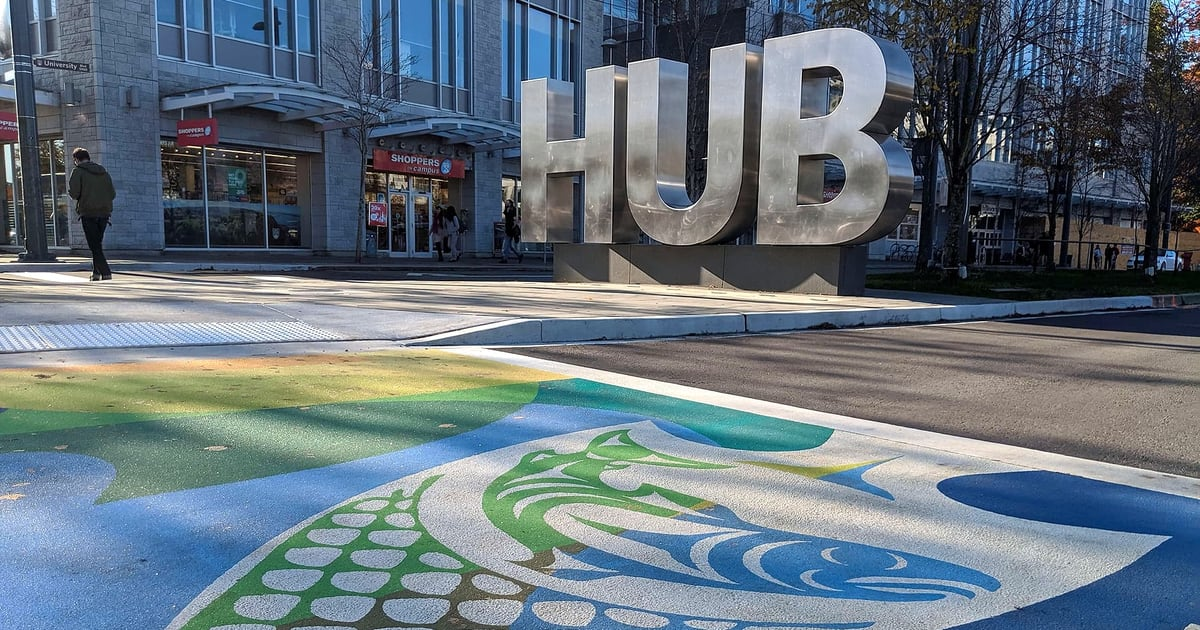
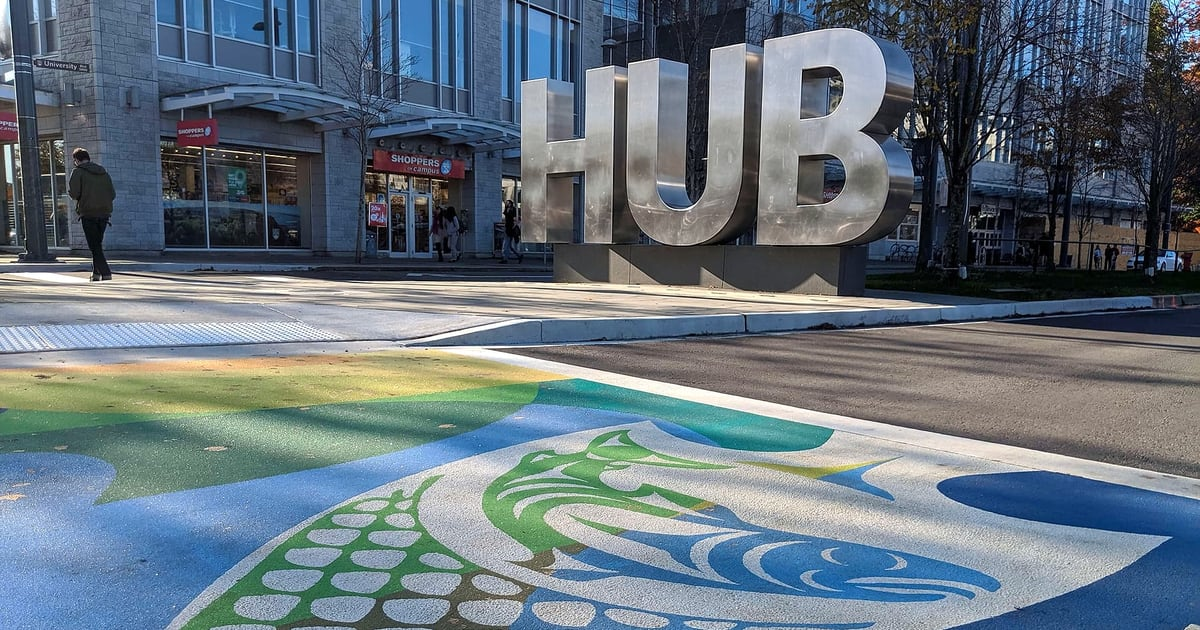
Hero 16:10 cut starts where the 28 Sep one did, so Studio's copy frames the same everywhere
The new hero-1.jpg started at row 71 of the master; the 28 Sep file started
at row 61. On windows just under 16:9 (a frame about 2:1, where "69% 42%"
crops most from the top) that left the sign 10 rows less air than before.
At row 61 the file frames as the old one did at every size (1440 x 900:
rows 141-1538, the sign with a little air, the salmon to the bottom of the
frame), so replacing Studio's copy changes only the sharpness. The share
card is re-cut from it (same rows of the scene, 201 KB).

Claude-Session: https://claude.ai/code/session_01EPjw9F4MxahVZ5pQLxicei

diff --git a/lib/hero-framing.ts b/lib/hero-framing.ts
@@ -126,7 +126,7 @@ export const HOME_HERO = {
    * B was cut off at 768 x 1024, 28 Sep 2026); it changes nothing on a
    * landscape screen, where the photo is as wide as the frame. Down, 42%
    * gives the sign a little air under the nav where the frame is wider than
-   * the photo: rows 151-1548 of the master at 1440 x 900 (scripts/hero-cuts.mjs).
+   * the photo: rows 141-1538 of the master at 1440 x 900 (scripts/hero-cuts.mjs).
    */
   position: "69% 42%",
   /** The framing for windows 16:9 and wider. Applied with the wide <source>'s own media query. */
